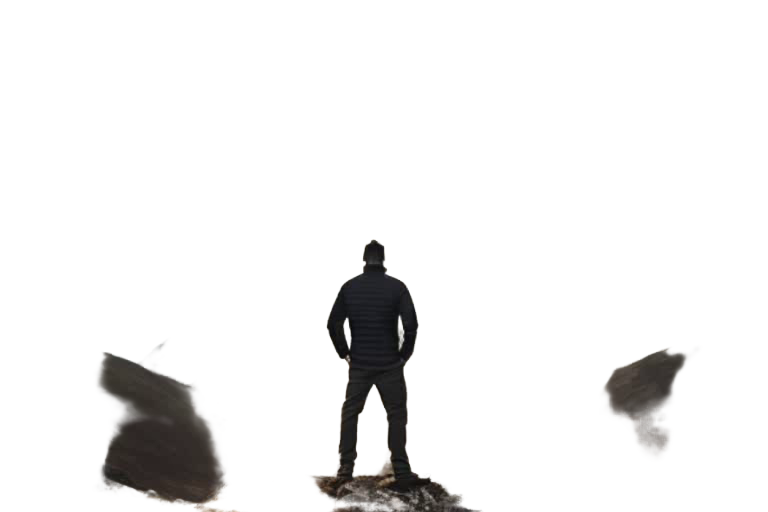
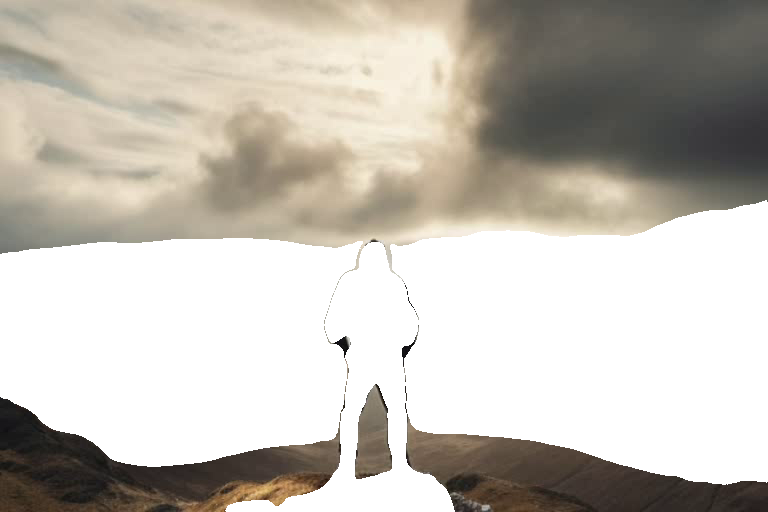
Added invert previous mask

diff --git a/ui_components/components/frame_editing_page.py b/ui_components/components/frame_editing_page.py
@@ -76,7 +76,7 @@ def frame_editing_page(project_name):
             st.sidebar.markdown("### Select Area To Edit:") 
             if 'index_of_type_of_mask_selection' not in st.session_state:
                 st.session_state['index_of_type_of_mask_selection'] = 0
-            mask_selection_options = ["Automated Background Selection", "Automated Layer Selection", "Manual Background Selection","Re-Use Previous Mask"]
+            mask_selection_options = ["Automated Background Selection", "Automated Layer Selection", "Manual Background Selection","Re-Use Previous Mask", "Invert Previous Mask"]
             type_of_mask_selection = st.sidebar.radio("How would you like to select what to edit?", mask_selection_options, horizontal=True, index=st.session_state['index_of_type_of_mask_selection'])                                                                      
             if st.session_state['index_of_type_of_mask_selection'] != mask_selection_options.index(type_of_mask_selection):
                 st.session_state['index_of_type_of_mask_selection'] = mask_selection_options.index(type_of_mask_selection)
@@ -154,9 +154,17 @@ def frame_editing_page(project_name):
                         st.session_state['edited_image'] = ""
                         st.experimental_rerun()
             
-            elif type_of_mask_selection == "Automated Background Selection" or type_of_mask_selection == "Automated Layer Selection" or type_of_mask_selection == "Re-Use Previous Mask":
-                if type_of_mask_selection == "Re-Use Previous Mask" and timing_details[st.session_state['which_image']]["mask"] == "":
+            elif type_of_mask_selection == "Automated Background Selection" or type_of_mask_selection == "Automated Layer Selection" or type_of_mask_selection == "Re-Use Previous Mask" or type_of_mask_selection == "Invert Previous Mask":
+                if (type_of_mask_selection == "Re-Use Previous Mask" or type_of_mask_selection == "Invert Previous Mask") and timing_details[st.session_state['which_image']]["mask"] == "":
                     st.sidebar.info("You don't have a previous mask to re-use.")
+                else:
+                    mask1,mask2 = st.sidebar.columns([2,1])
+                    with mask1:
+                        if type_of_mask_selection == "Re-Use Previous Mask":
+                            st.info("This will update the **black pixels** in the mask with the pixels from the image you are editing.")
+                        elif type_of_mask_selection == "Invert Previous Mask":
+                            st.info("This will update the **white pixels** in the mask with the pixels from the image you are editing.")                
+                        st.image(timing_details[st.session_state['which_image']]["mask"], use_column_width=True)
                 if st.session_state['edited_image'] == "":
                     st.image(editing_image, use_column_width=True)
                 else:
@@ -302,7 +310,7 @@ def frame_editing_page(project_name):
                     else:
                         st.button("Replace frame",disabled=True, help="You need to confirm you want to replace the frame and upload a replacement frame first.")
                     
-
+        st.sidebar.markdown("***")
         st.sidebar.markdown("### Batch Run Edits:")   
         st.sidebar.write("This will batch run the settings you have above on a batch of images.")     
         batch_run_range = st.sidebar.slider("Select range:", 1, 0, (0, len(timing_details)-1))                                

diff --git a/ui_components/common_methods.py b/ui_components/common_methods.py
@@ -1,6 +1,6 @@
 import streamlit as st
 import os
-from PIL import Image, ImageDraw, ImageFont
+from PIL import Image, ImageDraw, ImageFont, ImageOps
 from moviepy.editor import *
 import cv2
 from moviepy.video.io.VideoFileClip import VideoFileClip
@@ -1551,6 +1551,35 @@ def execute_image_edit(type_of_mask_selection, type_of_mask_replacement, project
         elif type_of_mask_replacement == "Inpainting":
             edited_image = inpainting(
                 project_name, editing_image, prompt, negative_prompt, index_of_current_item)
+    
+    elif type_of_mask_selection == "Invert Previous Mask":
+        timing_detials = get_timing_details(project_name)
+        mask_location = timing_detials[index_of_current_item]["mask"]
+        if type_of_mask_replacement == "Replace With Image":
+            if mask_location.startswith("http"):
+                response = r.get(mask_location)
+                mask = Image.open(BytesIO(response.content)).convert('1')
+            else:
+                mask = Image.open(mask_location).convert('1')
+            inverted_mask = ImageOps.invert(mask)
+            if editing_image.startswith("http"):
+                response = r.get(editing_image)
+                bg_img = Image.open(BytesIO(response.content)).convert('RGBA')
+            else:
+                bg_img = Image.open(editing_image).convert('RGBA')
+            masked_img = Image.composite(bg_img, Image.new(
+                'RGBA', bg_img.size, (0, 0, 0, 0)), inverted_mask)
+            masked_img.save("masked_image.png")
+            replace_background(
+                project_name, "masked_image.png", background_image)
+            edited_image = upload_image(
+                f"videos/{project_name}/replaced_bg.png")
+        elif type_of_mask_replacement == "Inpainting":
+            edited_image = inpainting(
+                project_name, editing_image, prompt, negative_prompt, index_of_current_item)
+
+
+
 
     return edited_image
 
